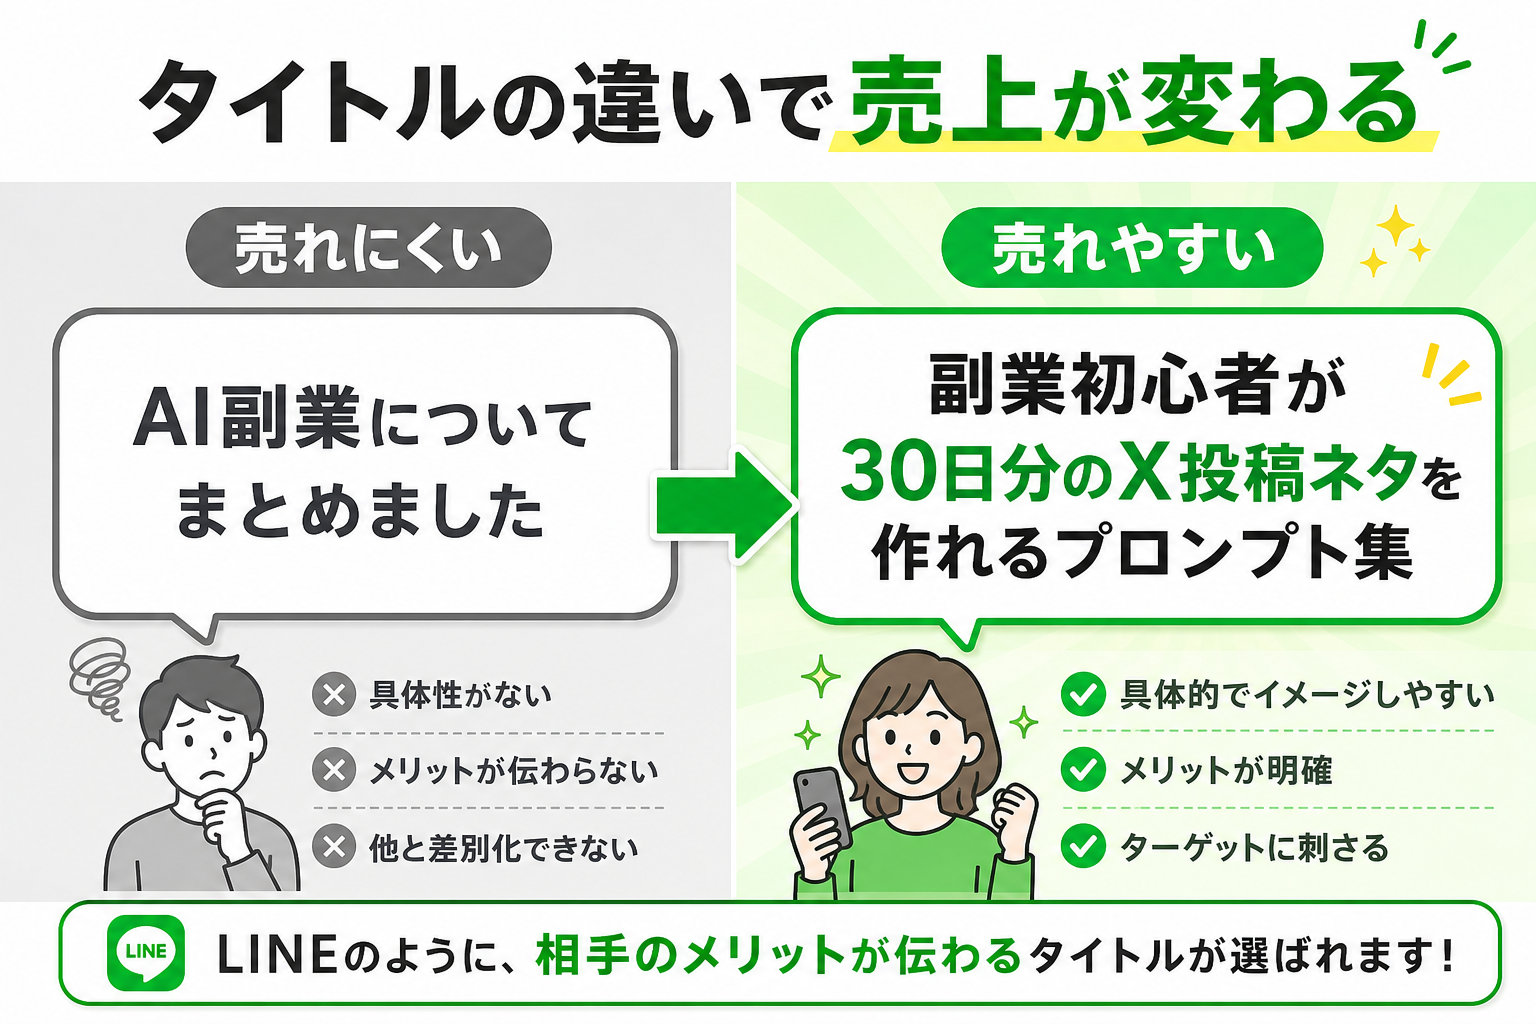
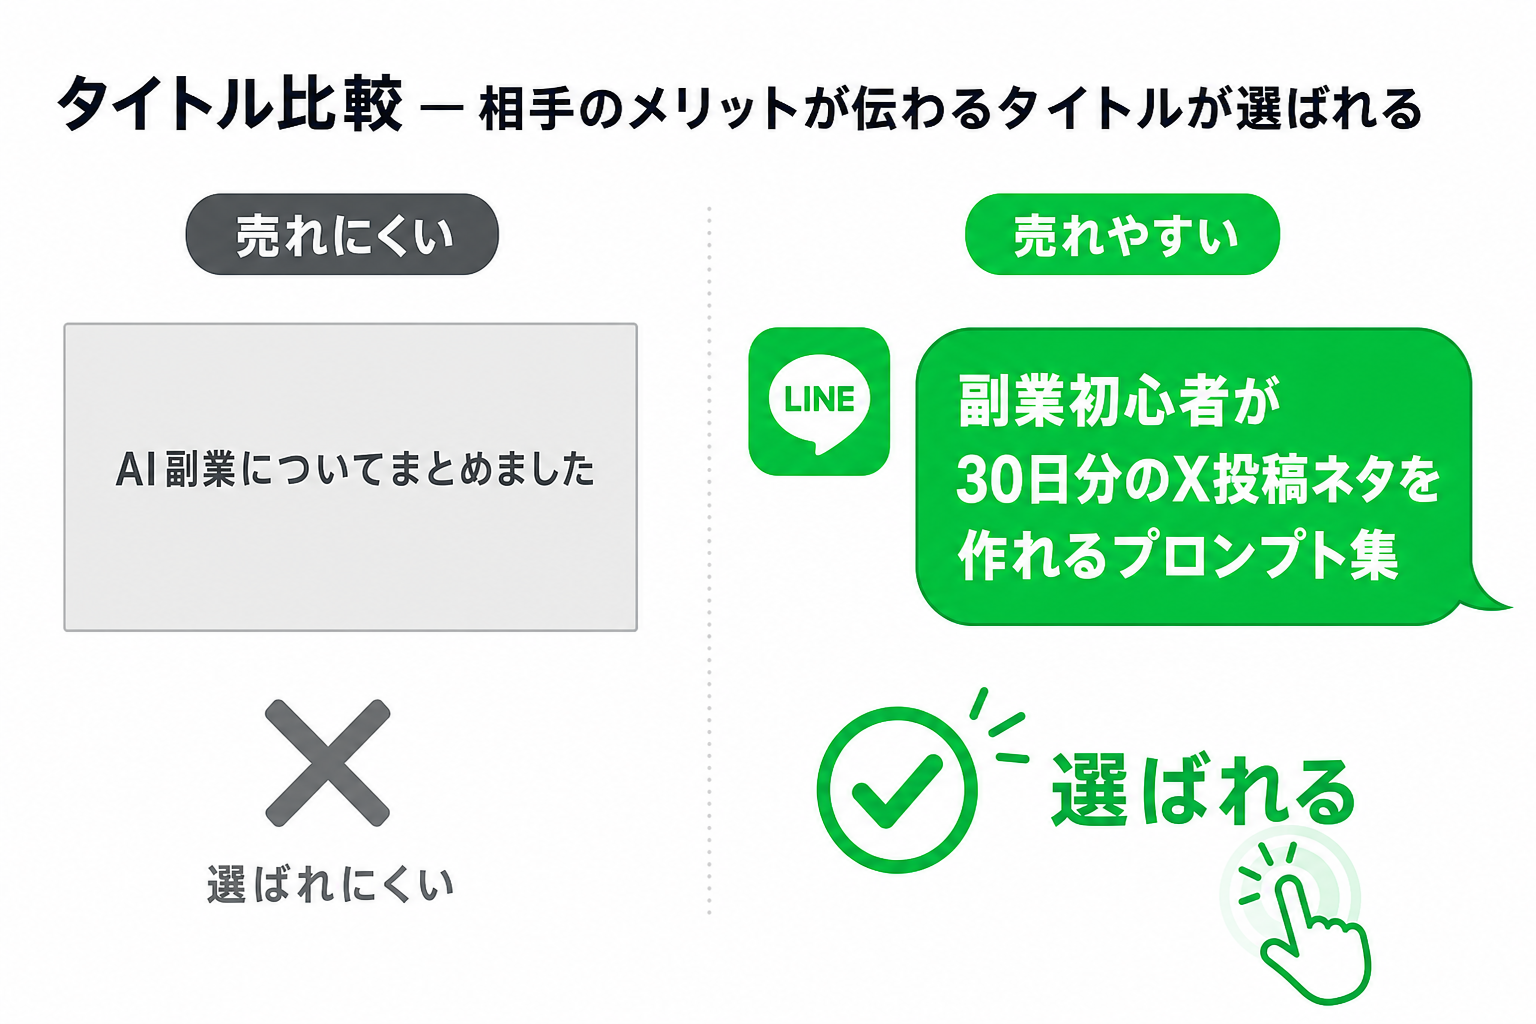
design(brain): update title compare with LINE-style benefit messaging
- Regenerate title compare image: plain vs LINE bubble with icon
- Update intro copy: メリットが伝わるタイトルが選ばれる
- Clarify 売れにくい=LINEのようにはなし / 売れやすい=LINE風

diff --git a/skills/substack_auto_tool/articles/brain_paid_article_styled.md b/skills/substack_auto_tool/articles/brain_paid_article_styled.md
@@ -31,17 +31,32 @@ ChatGPTを使えば、文章そのものは作りやすくなりました。
 
 ---
 
-## ⚖ タイトル比較 — どちらが「買う理由」がある？
+## ⚖ タイトル比較 — 相手のメリットが伝わるタイトルが選ばれる
 
 たとえば、次の2つを比べてみてください。
 
-| ❌ 売れにくい | ✅ 売れやすい |
-|:---|:---|
-| AI副業についてまとめました | 副業初心者が**30日分のX投稿ネタ**を作れるプロンプト集 |
+**❌ 売れにくい（LINEのようにはなし — 普通の見出し）**
 
-![タイトルの違い](assets/brain_section_title_compare.png)
+```
+AI副業についてまとめました
+```
 
-多くの人は、**後者**の方が「何が手に入るか」がわかりやすいはずです。
+→ 自分が書いたことは伝わるが、**読者のメリット**が見えない
+
+**✅ 売れやすい（LINE風 — 相手に届く一言）**
+
+```
+💬 ┌────────────────────────────────────┐
+   │ 副業初心者が30日分のX投稿ネタを      │
+   │ 作れるプロンプト集              ✓   │
+   └────────────────────────────────────┘
+```
+
+→ LINEのように **「買ったら何が手に入るか」** が一瞬で伝わる
+
+![タイトル比較 — LINE風でメリットが伝わる方が選ばれる](assets/brain_section_title_compare.png)
+
+多くの人は、**後者**の方が「自分ごと」に感じて選ばれます。
 
 > **📌 ポイント**
 >

diff --git a/skills/substack_auto_tool/articles/brain_sales_intro.md b/skills/substack_auto_tool/articles/brain_sales_intro.md
@@ -33,17 +33,32 @@ ChatGPTを使えば、文章そのものは作りやすくなりました。
 
 ---
 
-## ⚖ タイトル比較 — どちらが「買う理由」がある？
+## ⚖ タイトル比較 — 相手のメリットが伝わるタイトルが選ばれる
 
 たとえば、次の2つを比べてみてください。
 
-| ❌ 売れにくい | ✅ 売れやすい |
-|:---|:---|
-| AI副業についてまとめました | 副業初心者が**30日分のX投稿ネタ**を作れるプロンプト集 |
+**❌ 売れにくい（LINEのようにはなし — 普通の見出し）**
 
-![タイトルの違い](assets/brain_section_title_compare.png)
+```
+AI副業についてまとめました
+```
 
-多くの人は、**後者**の方が「何が手に入るか」がわかりやすいはずです。
+→ 自分が書いたことは伝わるが、**読者のメリット**が見えない
+
+**✅ 売れやすい（LINE風 — 相手に届く一言）**
+
+```
+💬 ┌────────────────────────────────────┐
+   │ 副業初心者が30日分のX投稿ネタを      │
+   │ 作れるプロンプト集              ✓   │
+   └────────────────────────────────────┘
+```
+
+→ LINEのように **「買ったら何が手に入るか」** が一瞬で伝わる
+
+![タイトル比較 — LINE風でメリットが伝わる方が選ばれる](assets/brain_section_title_compare.png)
+
+多くの人は、**後者**の方が「自分ごと」に感じて選ばれます。
 
 > **📌 ポイント**
 >
